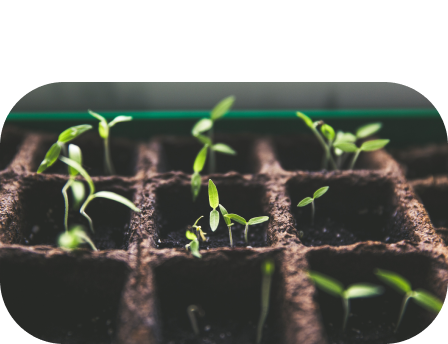
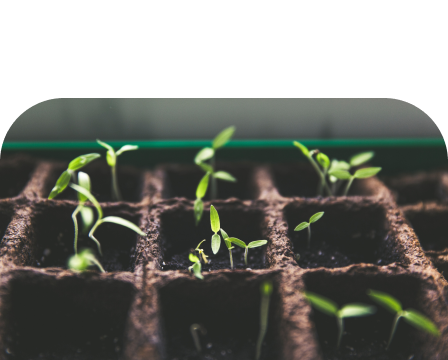
tipps workin

diff --git a/lib/dialog/tipp_dialog.dart b/lib/dialog/tipp_dialog.dart
@@ -14,40 +14,64 @@ class TippDialog extends StatefulWidget {
 }
 
 class _TippDialogState extends State<TippDialog> {
-  bool isExpanded = false;
+
+  bool visible = false;
+
+  @override
+  void initState() {
+    super.initState();
+
+  }
+
+  void showContent() async {
+    await Future.delayed(const Duration(milliseconds: 300));
+    setState(() {
+      visible = true;
+    });
+  }
 
   @override
   Widget build(BuildContext context) {
+    double bottom = (MediaQuery.of(context).size.height - 742.0) / 2.0;
+
     return Dialog(
       shape: RoundedRectangleBorder(
         borderRadius: BorderRadius.circular(10),
       ),
       backgroundColor: Colors.transparent,
       shadowColor: Colors.transparent,
-      insetPadding: const EdgeInsets.only(top: 7, left: 7, right: 7, bottom: 120),
+      insetPadding: EdgeInsets.only(top: 24, left: 14, right: 14, bottom: bottom),
       clipBehavior: Clip.antiAlias,
-      child: Row(
-        mainAxisAlignment: MainAxisAlignment.center,
-        children: [
-          Hero(tag: Key("tipp:${widget.tipp.imagePath}"), child: CustomImageCard(
+      child: Hero(
+        tag: Key("tipp:${widget.tipp.imagePath}"),
+        child: AnimatedSize(
+          duration: const Duration(milliseconds: 200),
+          child: CustomImageCard(
             image: AssetImage(widget.tipp.imagePath),
             color:AppColor.cardGreen,
-            child: AnimatedSize(
-                duration: const Duration(milliseconds: 200),
-                child: Container(
-                  height: isExpanded ? 300 : 90,
-                  padding: const EdgeInsets.symmetric(horizontal: 14),
-                  child: Row(
-                    crossAxisAlignment: CrossAxisAlignment.center,
+            width: MediaQuery.of(context).size.width - 14,
+            child: Container(
+              height: 420,
+              padding: const EdgeInsets.symmetric(horizontal: 14),
+              child: Column(
+                children: [
+                  const SizedBox(height: 24),
+                  Row(
                     children: [
-                      Flexible(child: Text(widget.tipp.title, style: const TextStyle(fontSize: 18)))
+                      Flexible(child: Text(widget.tipp.title, style: const TextStyle(fontSize: 22, fontWeight: FontWeight.bold)),)
                     ],
                   ),
-                )
-              ),
+                  const SizedBox(height: 12),
+                  Row(
+                    children: [
+                      Flexible(child: Text(widget.tipp.description, style: const TextStyle(fontSize: 18, height: 1.3)),)
+                    ],
+                  ),
+                ],
+              )
             )
           )
-        ],
+        )
       )
     );
   }

diff --git a/lib/components/custom_image_card.dart b/lib/components/custom_image_card.dart
@@ -1,45 +1,31 @@
 import 'package:flutter/material.dart';
 
 class CustomImageCard extends StatelessWidget {
-  const CustomImageCard({super.key, required this.image, required this.child, this.onTap, required this.color});
+  const CustomImageCard({super.key, required this.image, required this.child, this.onTap, required this.color, required this.width});
 
   final ImageProvider image;
   final Color color;
   final Widget child;
   final VoidCallback? onTap;
+  final double width;
 
   @override
   Widget build(BuildContext context) {
-    const imageHeight = 180.0;
-
     return InkWell(
       onTap: onTap,
-      child: SizedBox(
-        width: 240,
-        height: 320,
-        child: Stack(
-          children: [
-            Column(
-              children: [
-                const SizedBox(height: imageHeight - 46),
-                Container(
-                  decoration: BoxDecoration(
-                    color: color,
-                    borderRadius: const BorderRadius.only(bottomLeft: Radius.circular(32), bottomRight: Radius.circular(32))
-                  ),
-                  child: Column(
-                    children: [
-                      const SizedBox(height: 46),
-                      child
-                    ],
-                  )
-                ),
-              ],
+      child: SingleChildScrollView(child: Column(
+        children: [
+          Image(image: image, width: width),
+          Container(
+            decoration: BoxDecoration(
+              color: color,
+              borderRadius: const BorderRadius.only(bottomLeft: Radius.circular(32), bottomRight: Radius.circular(32))
             ),
-            Positioned(child: Image(image: image), top: 0, left: 0, right: 0,)
-          ],
-        ),
-      )
+            width: width,
+            child: child,
+          )
+        ],
+      ))
     );
   }
 }

diff --git a/lib/components/tipp_card.dart b/lib/components/tipp_card.dart
@@ -26,10 +26,12 @@ class TippCard extends StatelessWidget {
   @override
   Widget build(BuildContext context) {
     return Hero(tag: Key("tipp:${tipp.imagePath}"), child: CustomImageCard(
+      width: 240,
       image: AssetImage(tipp.imagePath),
       onTap: () => openOverlay(context),
       color: AppColor.cardGreen,
       child: Container(
+        width: 240,
         height: 90,
         padding: const EdgeInsets.symmetric(horizontal: 14),
         child: Row(
